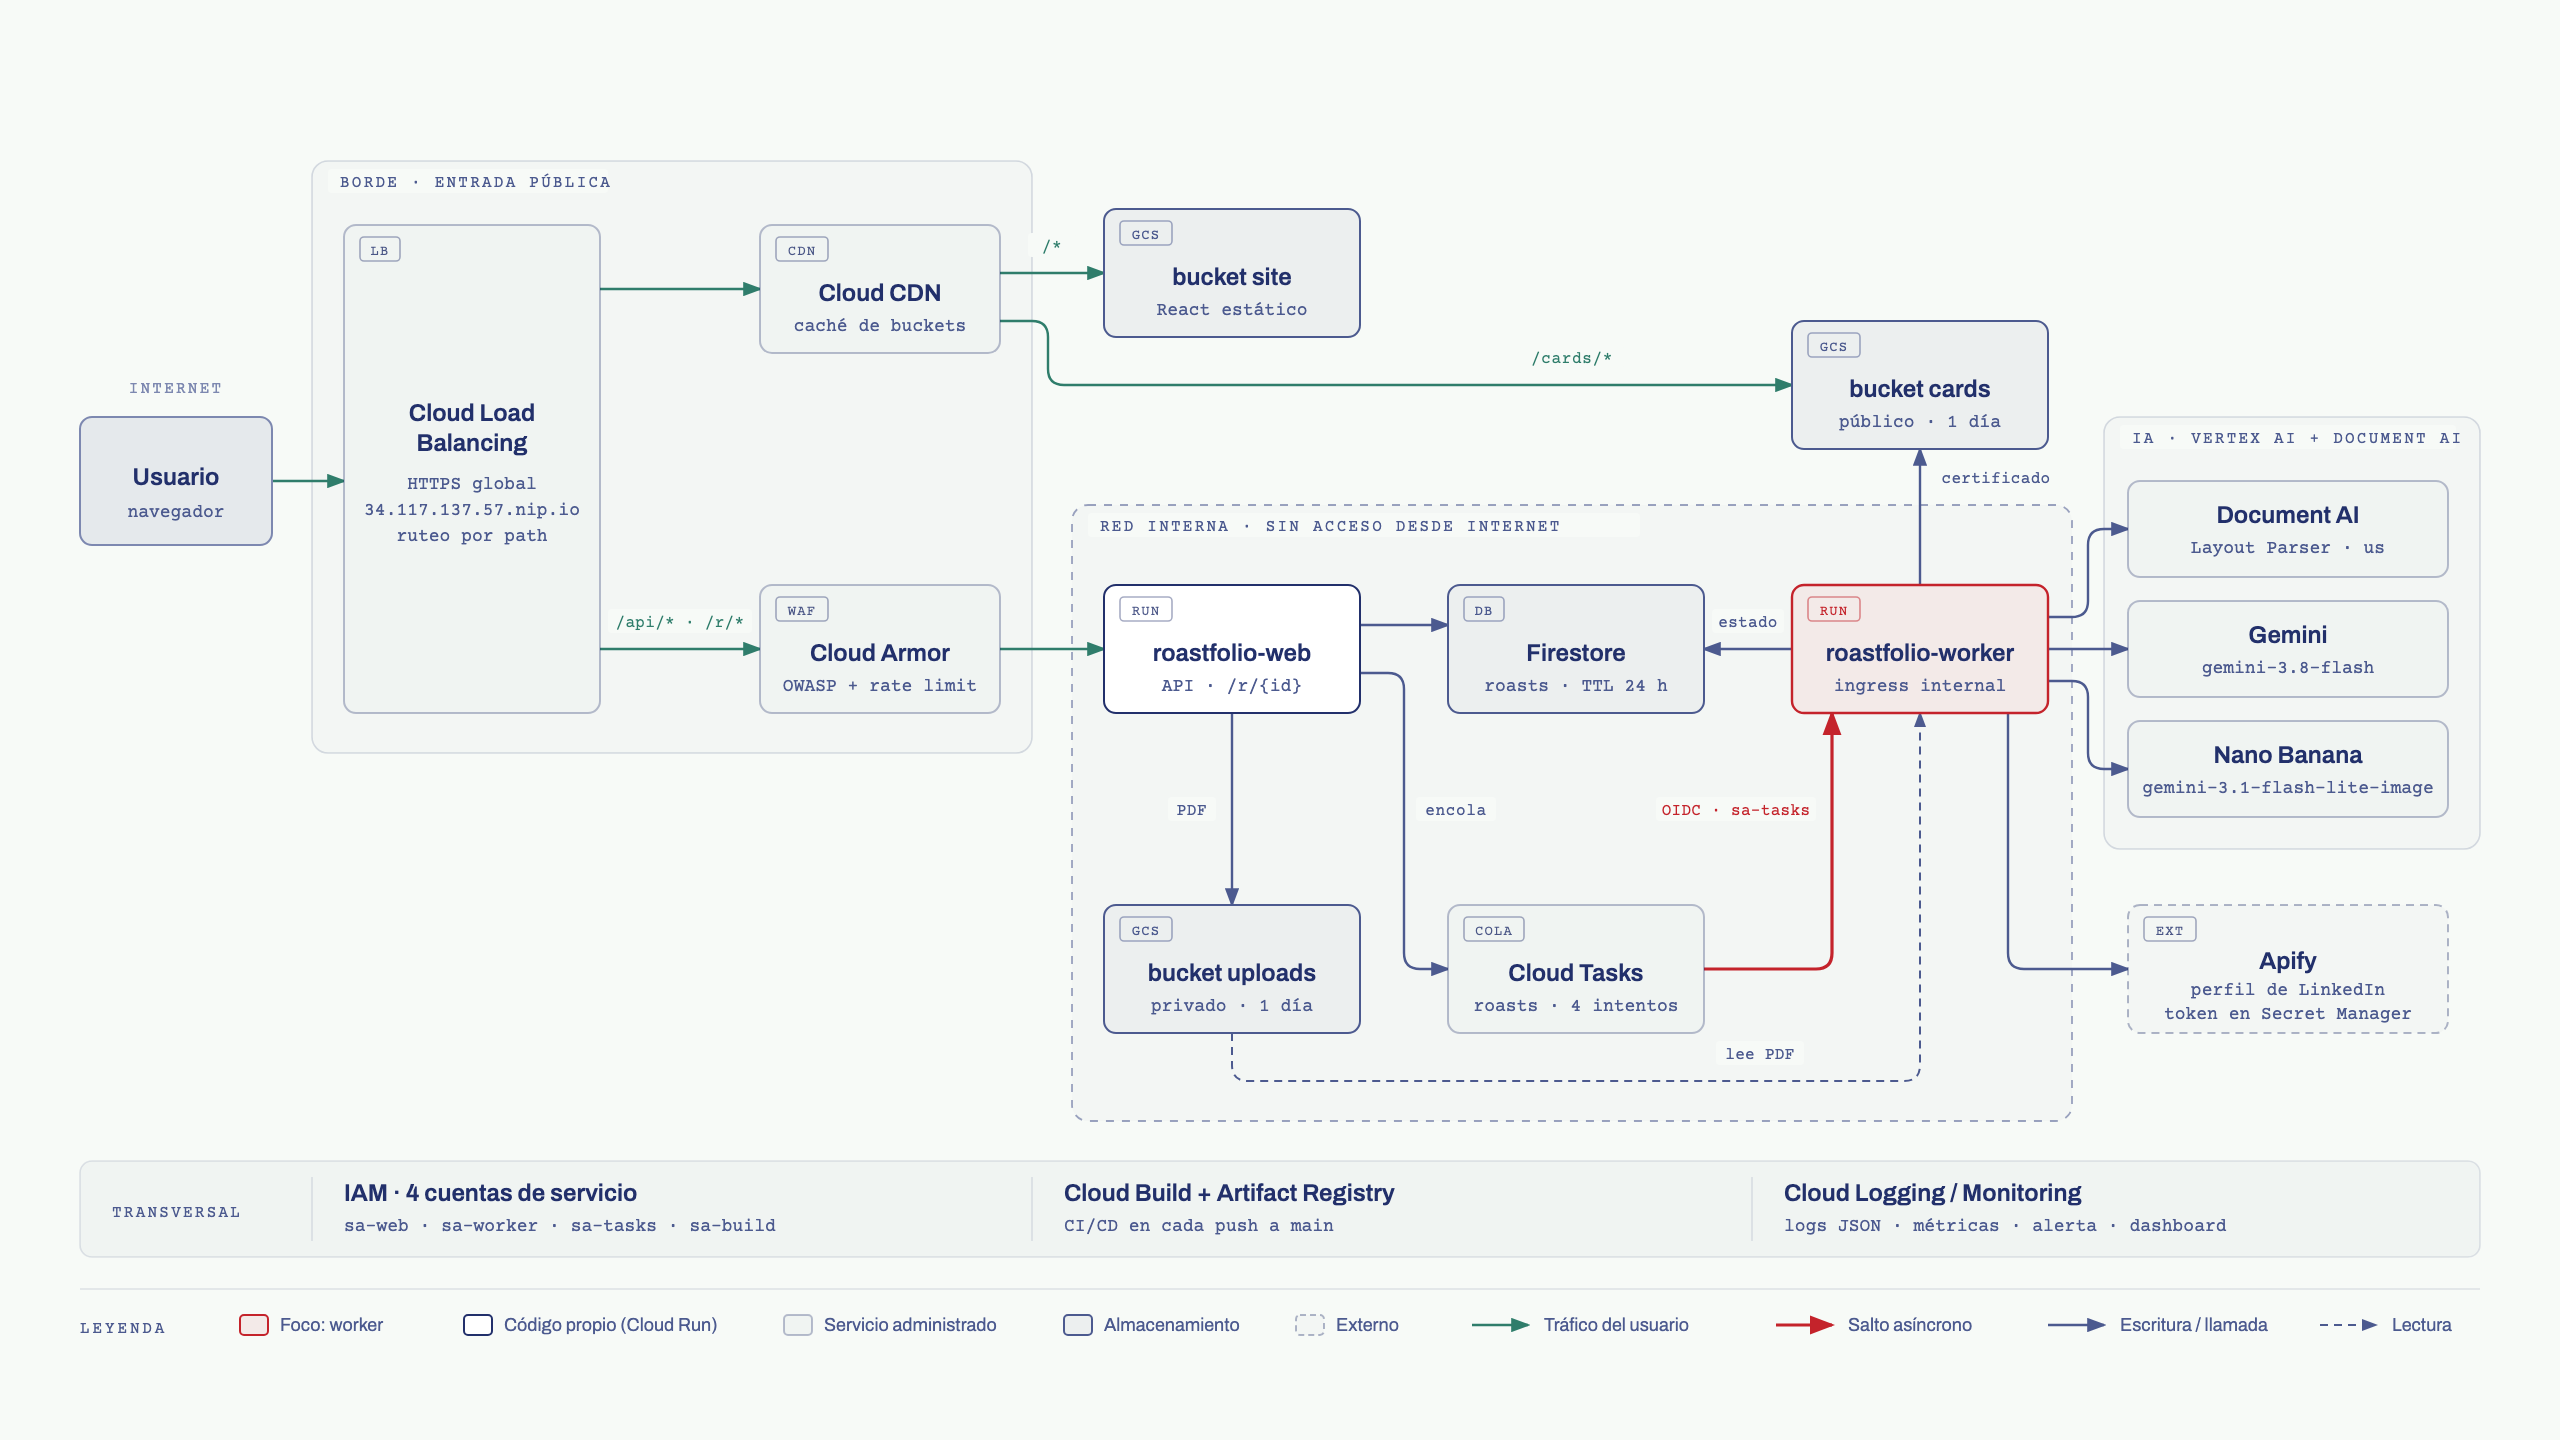
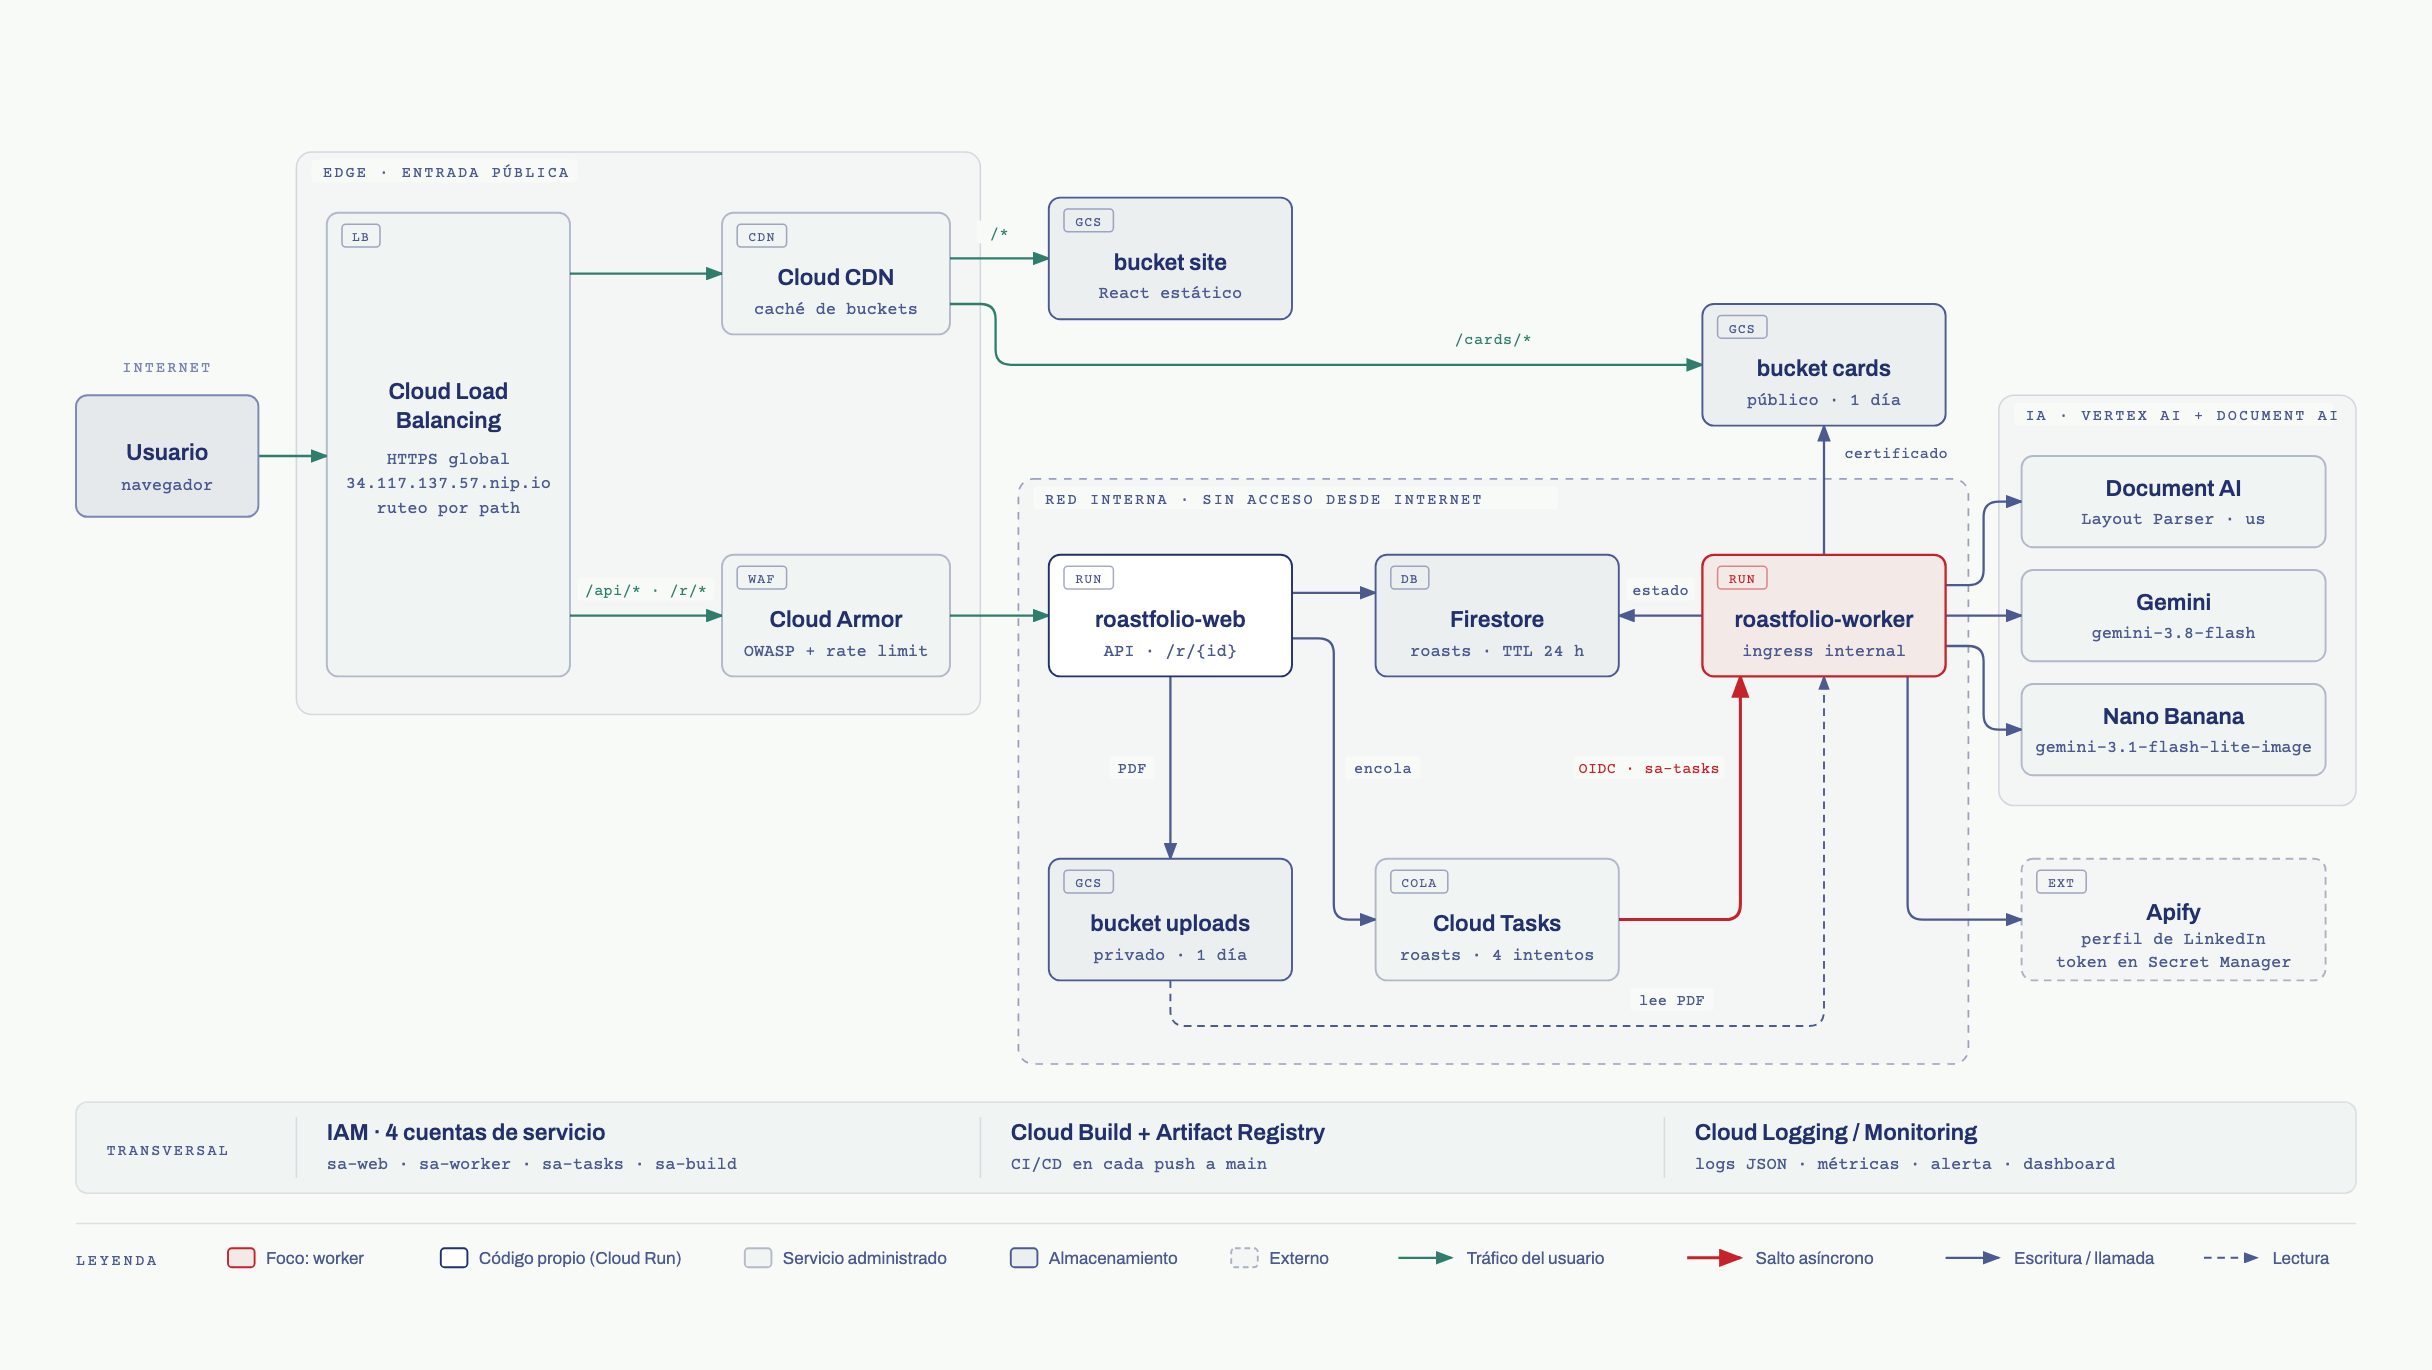
Architecture diagram: label the public entry zone as edge

diff --git a/docs/diagramas/arquitectura.html b/docs/diagramas/arquitectura.html
@@ -82,10 +82,10 @@
       <rect width="100%" height="100%" fill="#f7faf7"/>
 
       <!-- ============ ZONES (drawn first) ============ -->
-      <!-- Borde público -->
+      <!-- Edge público -->
       <rect x="156" y="80" width="360" height="296" rx="8" fill="rgba(34,48,107,0.02)" stroke="rgba(34,48,107,0.16)" stroke-width="0.8"/>
       <rect x="164" y="84" width="140" height="12" rx="2" fill="#f7faf7"/>
-      <text x="170" y="93" fill="#4c5a8f" font-size="8" font-family="'Courier Prime', monospace" letter-spacing="0.14em">BORDE · ENTRADA PÚBLICA</text>
+      <text x="170" y="93" fill="#4c5a8f" font-size="8" font-family="'Courier Prime', monospace" letter-spacing="0.14em">EDGE · ENTRADA PÚBLICA</text>
 
       <!-- Red interna (trust boundary) -->
       <rect x="536" y="252" width="500" height="308" rx="8" fill="rgba(34,48,107,0.02)" stroke="rgba(76,90,143,0.55)" stroke-width="0.9" stroke-dasharray="4,4"/>
